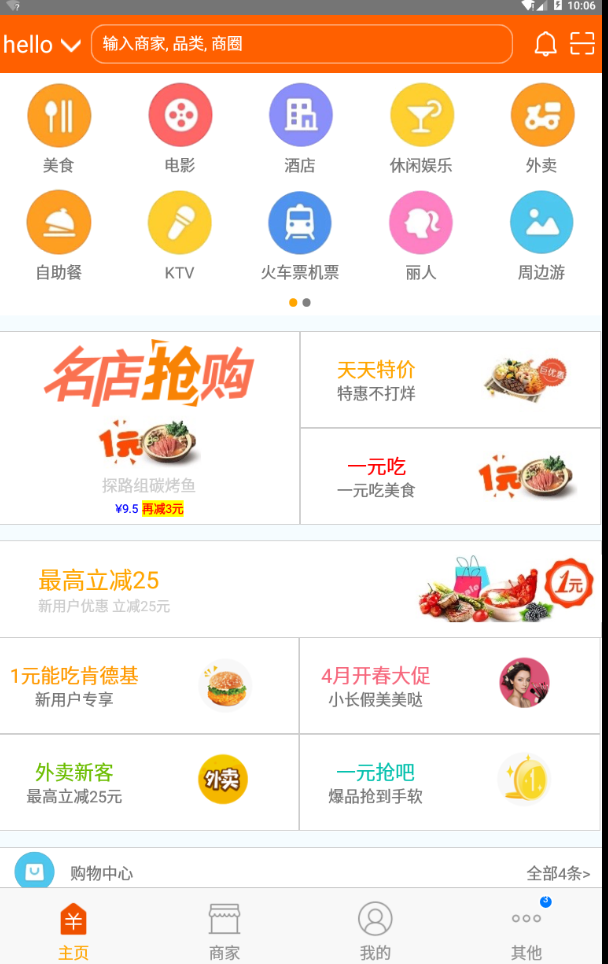
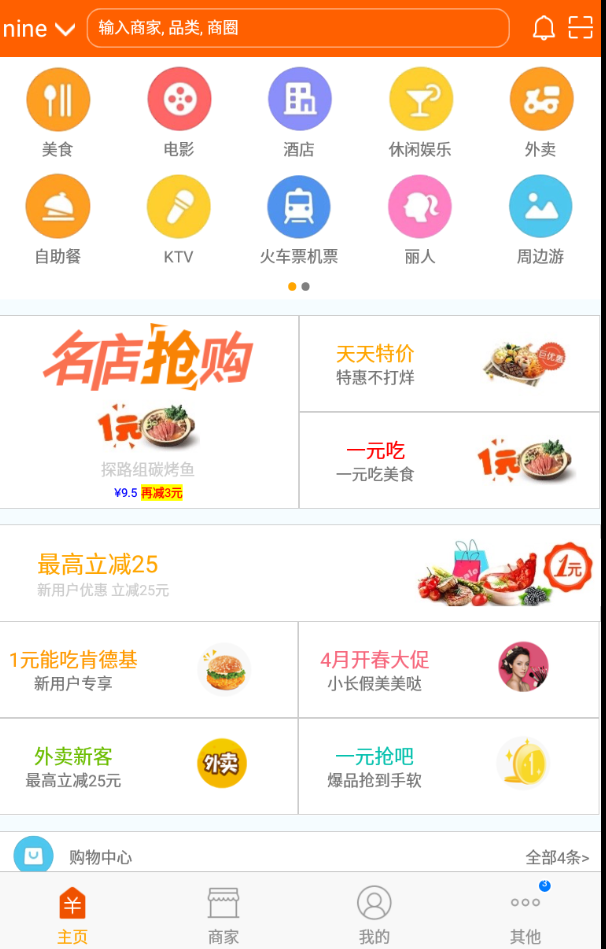
change

diff --git a/Components/User.js b/Components/User.js
@@ -37,7 +37,7 @@ var User = React.createClass({
                     <Image style={styles.backStyle} source={{uri: 'icon_cell_rightarrow'}}/>
                 </View>
                 {/*评价和收藏*/}
-                <View style={{flexDirection: 'row' }}>
+                <View style={{flexDirection: 'row'}}>
                     <Recommend top="100" bottom="优惠券" hasBorder="true"/>
                     <Recommend top="100" bottom="评价" hasBorder="true"/>
                     <Recommend top="100" bottom="收藏"/>
@@ -71,7 +71,7 @@ var User = React.createClass({
         let itemArr = [];
         for (let i = 0; i < PayData.length; ++i) {
             itemArr.push(<View key={i} style={styles.payStyle}><Image source={{uri: PayData[i].iconName}}
-                                                              style={styles.payImageStyle}/><Text
+                                                                      style={styles.payImageStyle}/><Text
                 style={styles.payTitleStyle}>{PayData[i].title}</Text></View>);
         }
         return itemArr;
@@ -108,12 +108,13 @@ const styles = StyleSheet.create({
     vipStyle: {
         width: width * 0.05,
         height: height * 0.04,
-        resizeMode: 'contain'
+        resizeMode: 'contain',
     },
     backStyle: {
         width: width * 0.03,
         height: height * 0.02,
-        resizeMode: 'contain'
+        resizeMode: 'contain',
+        marginRight : 20,
     },
 
     separate: {
@@ -134,12 +135,12 @@ const styles = StyleSheet.create({
         fontSize: 25,
         color: '#ccc',
     },
-    payView : {
-        flexDirection: 'row' ,
-        height : height * 0.07,
-        backgroundColor : 'white',
-        borderColor : '#ccc',
-        borderTopWidth : 1,
+    payView: {
+        flexDirection: 'row',
+        height: height * 0.07,
+        backgroundColor: 'white',
+        borderColor: '#ccc',
+        borderTopWidth: 1,
     }
 
 });

diff --git a/Components/Home.js b/Components/Home.js
@@ -61,7 +61,7 @@ var Home = React.createClass({
             <View style={styles.homeTop}>
                 <TouchableOpacity>
                     <View style={styles.cityNav}>
-                        <Text style={styles.topLeftText}>hello</Text>
+                        <Text style={styles.topLeftText}>nine</Text>
                         <Image style={styles.cityDown} source={{uri: 'icon_homepage_down_arrow'}}></Image>
                     </View>
                 </TouchableOpacity>

diff --git a/Components/Merchant.js b/Components/Merchant.js
@@ -121,7 +121,7 @@ const styles = StyleSheet.create({
     },
     textStyle: {
         color: 'white',
-        fontSize: 30,
+        fontSize: 25,
         fontWeight: 'bold',
 
     },
